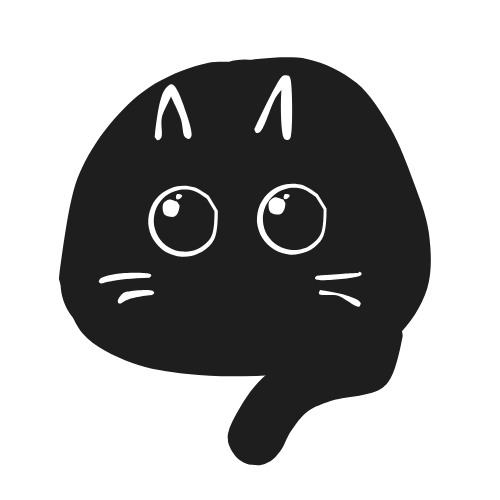
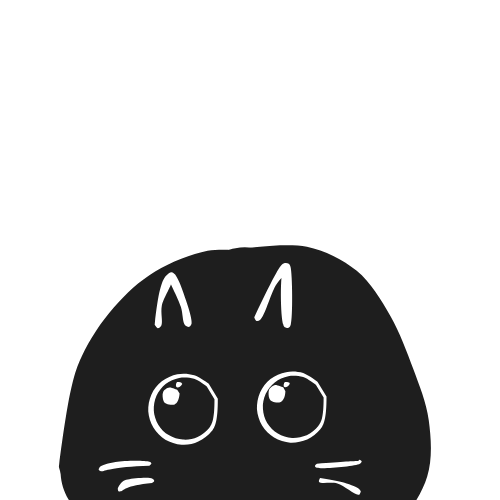
update CatLayout component to adjust cat placement coordinates and dimensions

diff --git a/src/components/CatLayout.tsx b/src/components/CatLayout.tsx
@@ -7,7 +7,7 @@ export type CatPlacement = {
 };
 
 export const CAT_LAYOUT: CatPlacement[] = [
-  { top: 77, left: 48, width: 12, z: 2 },
+  { top: 47, left: 78.7, width: 32, rotate: -90, z: 2 },
   { top: 79, left: 5, width: 12 },
   { top: 37, left: 30, width: 9, rotate: 10 },
   { top: 38, left: 62, width: 6, z: 3 },
